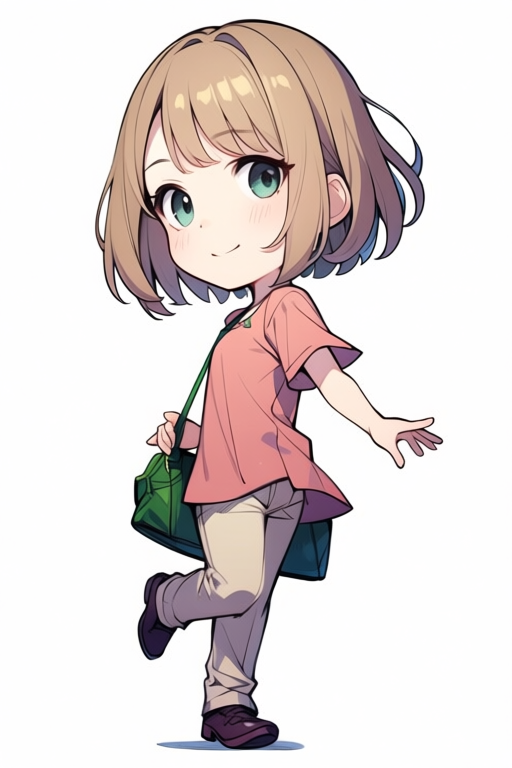
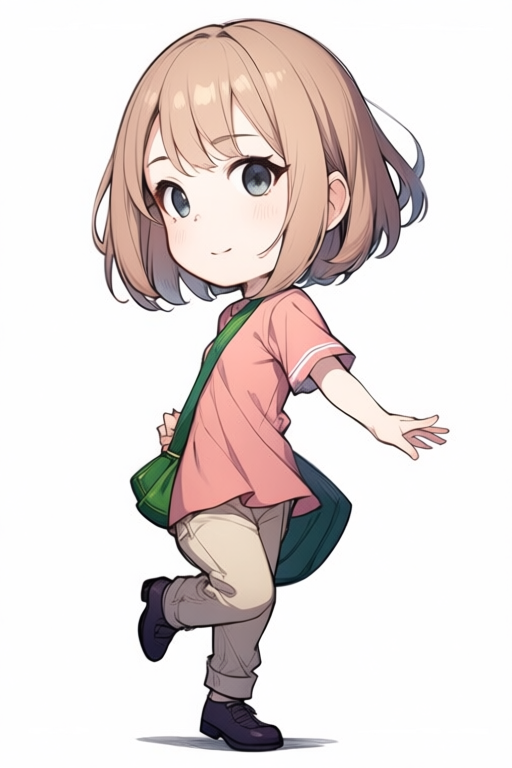
fix: customer_b's front stride uses the clean-up render with a single bag (seed 6102) (#104)

Changed region(s): [[0.1562, 0.0, 0.875, 1.0], [0.25, 0.8125, 0.2812, 0.8438]]

diff --git a/docs/ASSET_CREDITS.md b/docs/ASSET_CREDITS.md
@@ -227,7 +227,7 @@ cross-check, not a license approval; the human review and redistribution fields 
 |scene_renders_comfy|assets/source/scenes|AI|ローカル ComfyUI で生成（2026-10-31）：Anima-Base-v1.0 + anima-style-epoch35-lr5e5（0.8、トリガー anima_style）のみ。タイトル 1344×768、イベント 768×432、seed 5101（タイトル候補 5102）。prompt は各 .json（tools/assets/comfy_scenes.py）。文字・ロゴ・実在ブランドなし|Anima-Base-v1.0 + anima-style LoRA（ユーザー提供の環境）|架空の風景・商品。ベースモデル・LoRA の利用条件はユーザー環境のもの|2026-10-31|目視（文字化けの看板は商品パッケージ風の装飾として許容）。配布可はユーザーの判断（2026-10-30）|yes|
 |ui_title_background|assets/ui/title/title_background.png|AI|assets/source/scenes/title_5101.png（prompt は同名 .json）を 1920×1080 にカバー拡大＋軽いシャープ（tools/assets/build_scene_ui.py）|ComfyUI（Anima-Base-v1.0 + anima-style LoRA）+ Pillow|架空の風景|2026-10-31|目視。配布可はユーザーの判断（2026-10-30）|yes|
 |ui_event_pictures|assets/ui/events|AI|assets/source/scenes/evt_*_5101.png（prompt は同名 .json）を 576×324 に縮小（表示 384×216 の 1.5 倍、tools/assets/build_scene_ui.py）。12 イベント分|ComfyUI（Anima-Base-v1.0 + anima-style LoRA）+ Pillow|架空の風景・商品|2026-10-31|目視。配布可はユーザーの判断（2026-10-30）|yes|
-|chibi_renders_comfy|assets/source/characters/chibi|AI|ローカル ComfyUI で生成（2026-10-31）：Anima-Base-v1.0 + anima-style-epoch35-lr5e5（0.8、トリガー anima_style）のみ、512×768、seed 6101。客6種（customer_a/b/c の服の色、会社員・学生・保護者）と店員の正面斜め・背面斜め、歩幅2ポーズ（img2img denoise 0.72）、食事の座りポーズ、脚を反転した歩幅の継ぎ目描き直し（客b・会社員、*_stepB2_*、img2img denoise 0.5、会社員の正面は seed 6103 を採用）。prompt は各 .json（tools/assets/comfy_chibi.py）|Anima-Base-v1.0 + anima-style LoRA（ユーザー提供の環境）|架空の人物。ベースモデル・LoRA の利用条件はユーザー環境のもの|2026-10-31|目視（正面・背面で服と髪が一致）。配布可はユーザーの判断（2026-10-30）|yes|
+|chibi_renders_comfy|assets/source/characters/chibi|AI|ローカル ComfyUI で生成（2026-10-31）：Anima-Base-v1.0 + anima-style-epoch35-lr5e5（0.8、トリガー anima_style）のみ、512×768、seed 6101。客6種（customer_a/b/c の服の色、会社員・学生・保護者）と店員の正面斜め・背面斜め、歩幅2ポーズ（img2img denoise 0.72）、食事の座りポーズ、脚を反転した歩幅の継ぎ目描き直し（客b・会社員、*_stepB2_*、img2img denoise 0.5、会社員の正面は seed 6103、客bの正面は seed 6102 を採用）。prompt は各 .json（tools/assets/comfy_chibi.py）|Anima-Base-v1.0 + anima-style LoRA（ユーザー提供の環境）|架空の人物。ベースモデル・LoRA の利用条件はユーザー環境のもの|2026-10-31|目視（正面・背面で服と髪が一致）。配布可はユーザーの判断（2026-10-30）|yes|
 |chibi_customer_a|assets/generated/characters/chibi_customer_a|AI|assets/source/characters/chibi/customer_a_front_6101.png / _back_6101.png（prompt は同名 .json）を透過切り抜き、190×329 キャンバスに足元 (95,282) で配置、左右反転で4方向、歩行は立ち＋歩幅2ポーズ、待機・品定めは伸縮、食事の座りポーズ（tools/assets/build_chibi_sprites.py）。影は customer_a の shadow.png|ComfyUI（Anima-Base-v1.0 + anima-style LoRA）+ Pillow/NumPy/SciPy|架空の人物|2026-10-31|目視・ゲーム内確認。配布可はユーザーの判断（2026-10-30）|yes|
 |chibi_customer_b|assets/generated/characters/chibi_customer_b|AI|assets/source/characters/chibi/customer_b_front_6101.png / _back_6101.png（prompt は同名 .json）を透過切り抜き、190×329 キャンバスに足元 (95,282) で配置、左右反転で4方向、歩行は立ち＋歩幅2ポーズ、待機・品定めは伸縮、食事の座りポーズ（tools/assets/build_chibi_sprites.py）。影は customer_a の shadow.png|ComfyUI（Anima-Base-v1.0 + anima-style LoRA）+ Pillow/NumPy/SciPy|架空の人物|2026-10-31|目視・ゲーム内確認。配布可はユーザーの判断（2026-10-30）|yes|
 |chibi_customer_c|assets/generated/characters/chibi_customer_c|AI|assets/source/characters/chibi/customer_c_front_6101.png / _back_6101.png（prompt は同名 .json）を透過切り抜き、190×329 キャンバスに足元 (95,282) で配置、左右反転で4方向、歩行は立ち＋歩幅2ポーズ、待機・品定めは伸縮、食事の座りポーズ（tools/assets/build_chibi_sprites.py）。影は customer_a の shadow.png|ComfyUI（Anima-Base-v1.0 + anima-style LoRA）+ Pillow/NumPy/SciPy|架空の人物|2026-10-31|目視・ゲーム内確認。配布可はユーザーの判断（2026-10-30）|yes|
